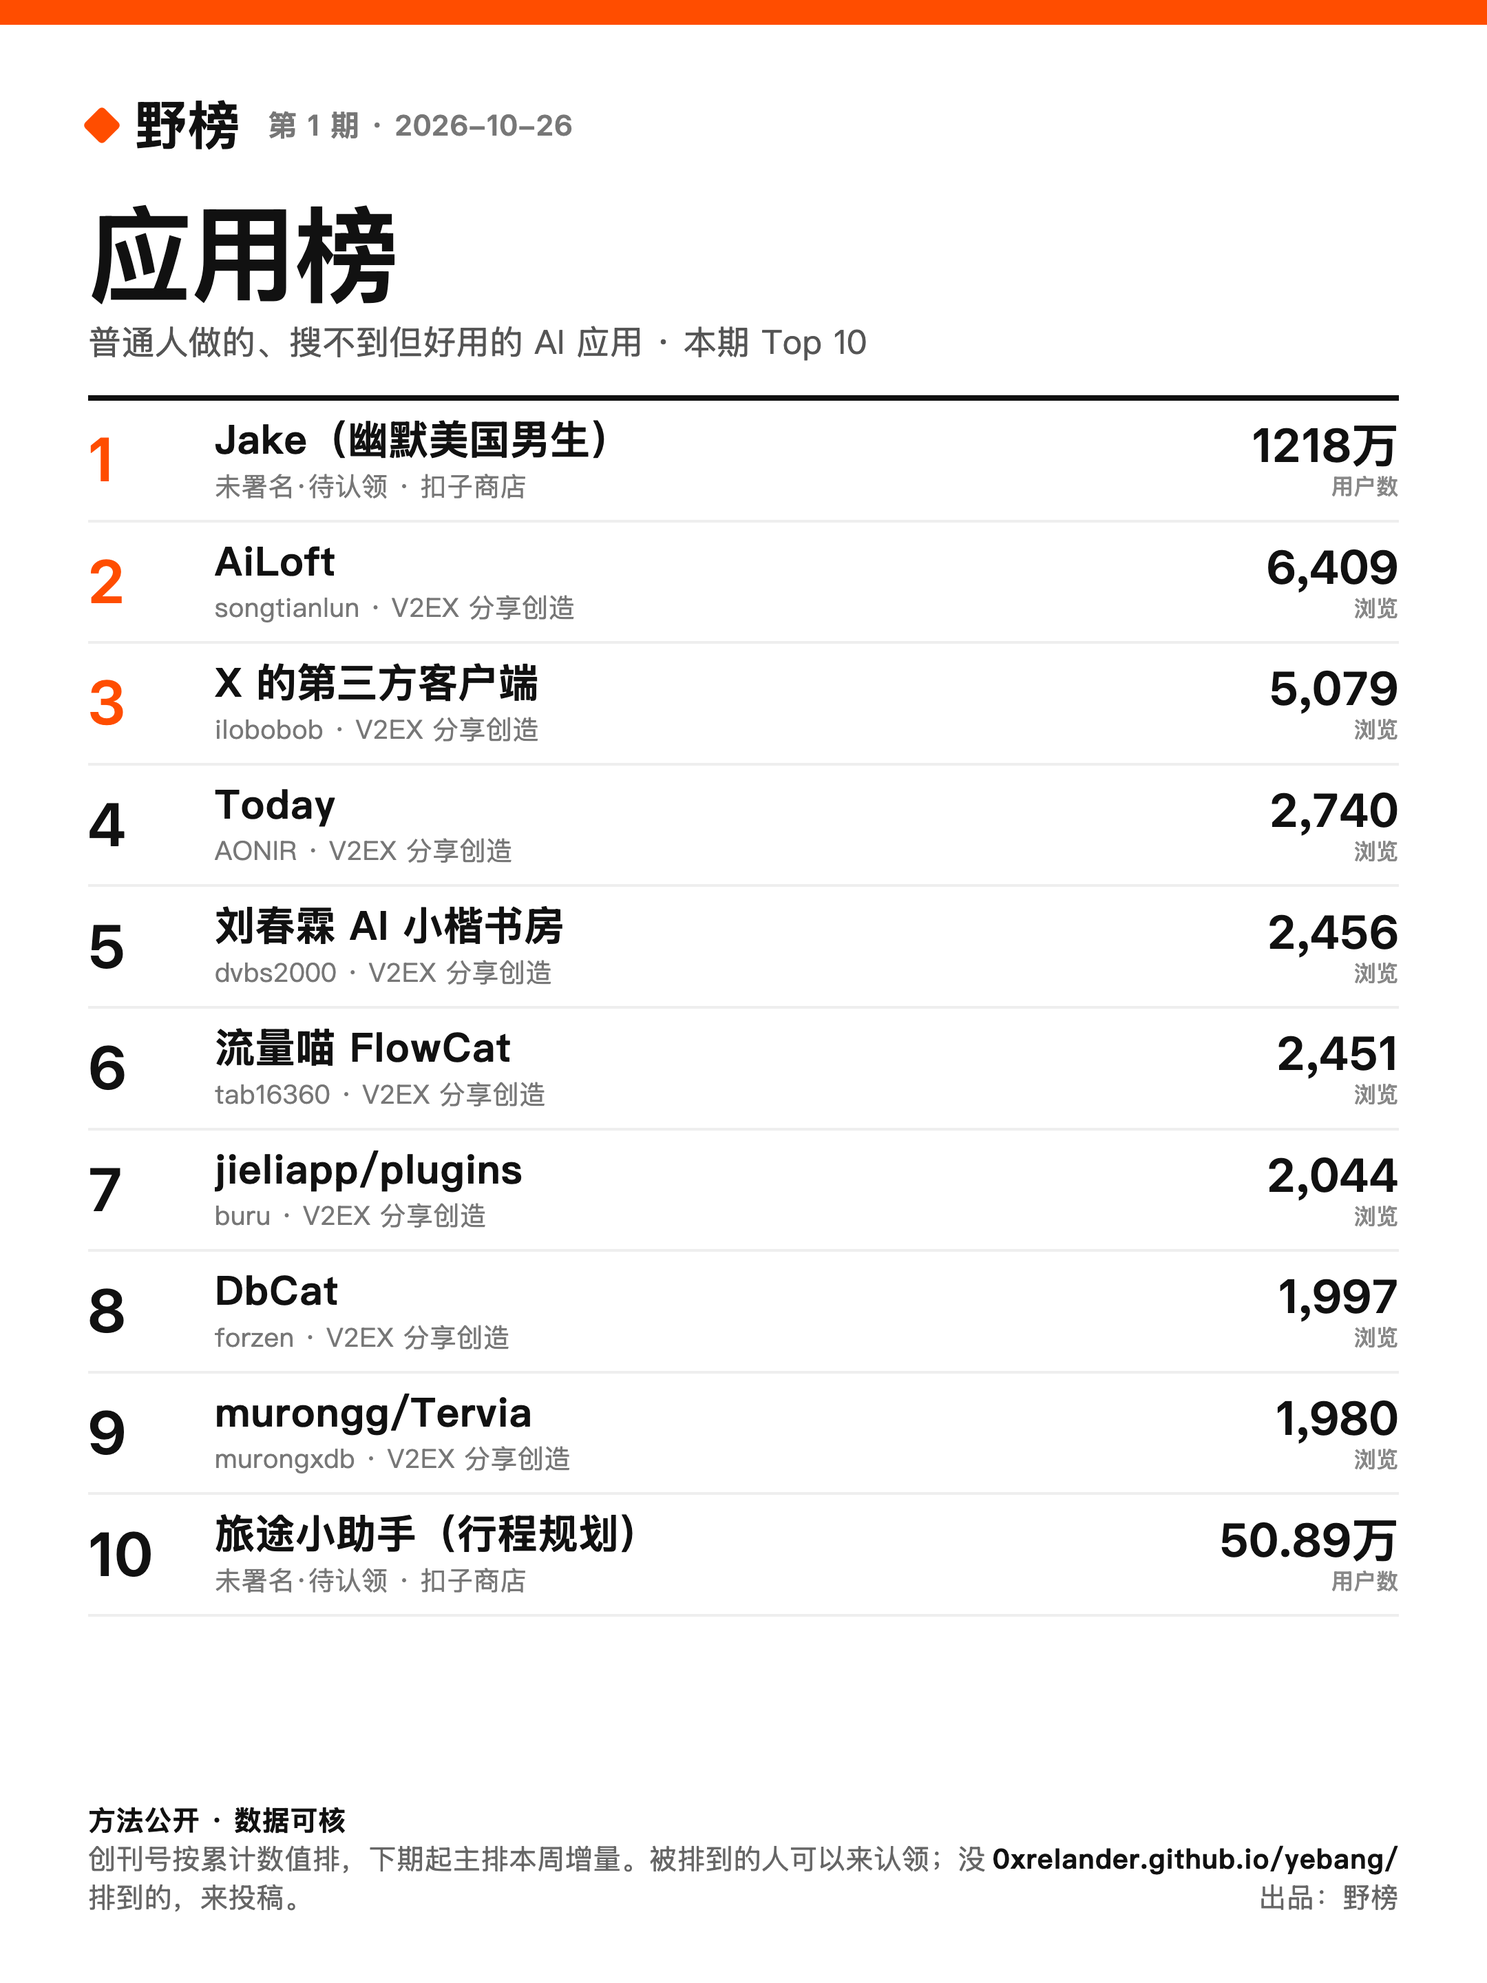
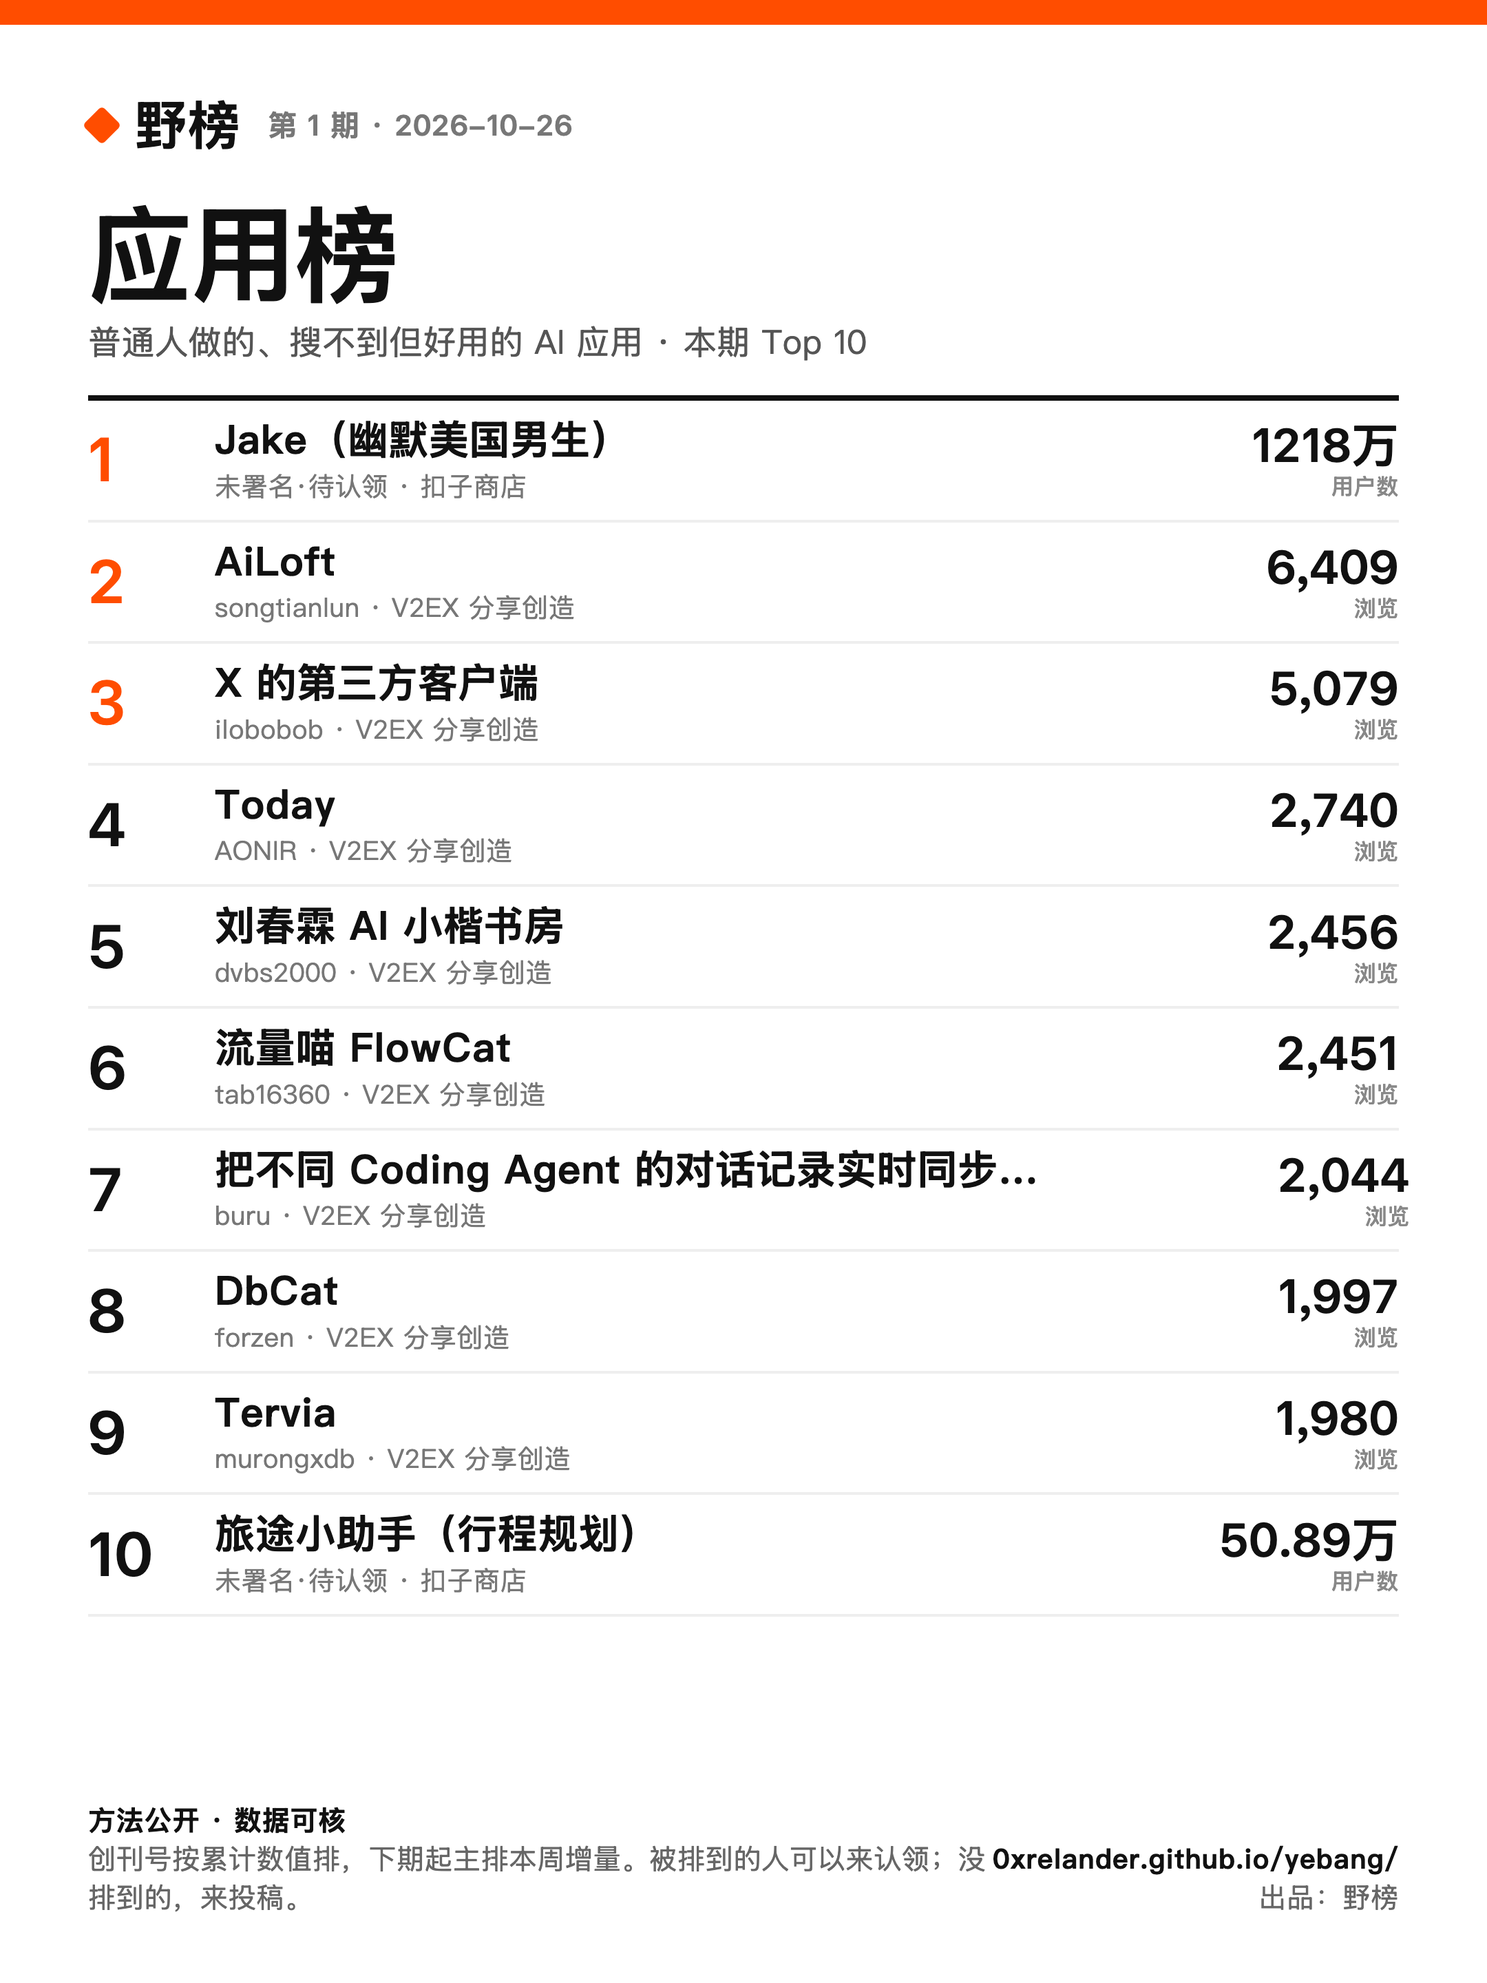
第 1 期修正：应用榜作品名取仓名或帖内「」引名，不再显示 owner/repo

Changed region(s): [[0.1551, 0.5625, 0.6824, 0.625], [0.1241, 0.6875, 0.3722, 0.7188], [0.8685, 0.5625, 0.9616, 0.625]]

diff --git a/docs/index.html b/docs/index.html
@@ -330,7 +330,7 @@ ul.archive li{padding:14px 0;border-bottom:1px solid var(--line);display:flex;ju
 </li><li>
  <div class="no">7</div>
  <div>
-  <div class="name"><a href="https://github.com/jieliapp/plugins" rel="noopener">jieliapp/plugins</a></div>
+  <div class="name"><a href="https://github.com/jieliapp/plugins" rel="noopener">把不同 Coding Agent 的对话记录实时同步到网上</a></div>
   <div class="by"><a href="https://www.v2ex.com/member/buru">buru</a></div>
   <div class="desc">帖：分享一个小工具，把不同 Coding Agent 的对话记录实时同步到网上，方便自己浏览和分享给同事</div>
   <div class="chips"><span class="chip">网页 / 独立应用</span><a class="chip src" href="https://www.v2ex.com/t/1220299">V2EX 分享创造</a><span class="chip ok">10-26 可打开</span></div>
@@ -348,7 +348,7 @@ ul.archive li{padding:14px 0;border-bottom:1px solid var(--line);display:flex;ju
 </li><li>
  <div class="no">9</div>
  <div>
-  <div class="name"><a href="https://github.com/murongg/Tervia" rel="noopener">murongg/Tervia</a></div>
+  <div class="name"><a href="https://github.com/murongg/Tervia" rel="noopener">Tervia</a></div>
   <div class="by"><a href="https://www.v2ex.com/member/murongxdb">murongxdb</a></div>
   <div class="desc">帖：[开源] AI Coding 时代，也许真不用再打开 VS Code、IDEA 了</div>
   <div class="chips"><span class="chip">网页 / 独立应用</span><a class="chip src" href="https://www.v2ex.com/t/1250064">V2EX 分享创造</a><span class="chip ok">10-26 可打开</span></div>
@@ -384,7 +384,7 @@ ul.archive li{padding:14px 0;border-bottom:1px solid var(--line);display:flex;ju
 </li><li>
  <div class="no">13</div>
  <div>
-  <div class="name"><a href="https://github.com/flyhero/antumi" rel="noopener">flyhero/antumi</a></div>
+  <div class="name"><a href="https://github.com/flyhero/antumi" rel="noopener">antumi</a></div>
   <div class="by"><a href="https://www.v2ex.com/member/iflyapi">iflyapi</a></div>
   <div class="desc">帖：开源自用的多 Agent 桌面工作台， Agent 放一起管，订阅额度一点不浪费</div>
   <div class="chips"><span class="chip">网页 / 独立应用</span><a class="chip src" href="https://www.v2ex.com/t/1250538">V2EX 分享创造</a><span class="chip ok">10-26 可打开</span></div>
@@ -393,7 +393,7 @@ ul.archive li{padding:14px 0;border-bottom:1px solid var(--line);display:flex;ju
 </li><li>
  <div class="no">14</div>
  <div>
-  <div class="name"><a href="https://github.com/dezhishen/dtool" rel="noopener">dezhishen/dtool</a></div>
+  <div class="name"><a href="https://github.com/dezhishen/dtool" rel="noopener">dtool</a></div>
   <div class="by"><a href="https://www.v2ex.com/member/THESDZ">THESDZ</a></div>
   <div class="desc">帖：dtool v0.3.0 发布：面向 AI 的数据工作流，从 Excel 起步，规矩立好了，不烧心</div>
   <div class="chips"><span class="chip">网页 / 独立应用</span><a class="chip src" href="https://www.v2ex.com/t/1250037">V2EX 分享创造</a><span class="chip ok">10-26 可打开</span></div>
@@ -420,7 +420,7 @@ ul.archive li{padding:14px 0;border-bottom:1px solid var(--line);display:flex;ju
 </li><li>
  <div class="no">17</div>
  <div>
-  <div class="name"><a href="https://github.com/qinruimac/mcd-smart-spender" rel="noopener">qinruimac/mcd-smart-spender</a></div>
+  <div class="name"><a href="https://github.com/qinruimac/mcd-smart-spender" rel="noopener">麦麦精算师</a></div>
   <div class="by"><a href="https://www.v2ex.com/member/d5n">d5n</a></div>
   <div class="desc">帖：做了个麦当劳 MCP 省钱助手「麦麦精算师」，一句话帮你算出最省点餐方案</div>
   <div class="chips"><span class="chip">网页 / 独立应用</span><a class="chip src" href="https://www.v2ex.com/t/1251253">V2EX 分享创造</a><span class="chip ok">10-26 可打开</span></div>
@@ -429,7 +429,7 @@ ul.archive li{padding:14px 0;border-bottom:1px solid var(--line);display:flex;ju
 </li><li>
  <div class="no">18</div>
  <div>
-  <div class="name"><a href="https://github.com/atbfun/ATBGamePort" rel="noopener">atbfun/ATBGamePort</a></div>
+  <div class="name"><a href="https://github.com/atbfun/ATBGamePort" rel="noopener">ATBGamePort</a></div>
   <div class="by"><a href="https://www.v2ex.com/member/aitobox">aitobox</a></div>
   <div class="desc">帖：ATBGamePort -- 用 AI 一键移植任意游戏到 html5</div>
   <div class="chips"><span class="chip">网页 / 独立应用</span><a class="chip src" href="https://www.v2ex.com/t/1250623">V2EX 分享创造</a><span class="chip ok">10-26 可打开</span></div>
@@ -438,7 +438,7 @@ ul.archive li{padding:14px 0;border-bottom:1px solid var(--line);display:flex;ju
 </li><li>
  <div class="no">19</div>
  <div>
-  <div class="name"><a href="https://github.com/tianma-if/edgeever" rel="noopener">tianma-if/edgeever</a></div>
+  <div class="name"><a href="https://github.com/tianma-if/edgeever" rel="noopener">edgeever</a></div>
   <div class="by"><a href="https://www.v2ex.com/member/mayinshi">mayinshi</a></div>
   <div class="desc">帖：EdgeEver：全端开源知识库，支持 Cloudflare / Docker 自托管，原生打通 MCP 与 ACP 联</div>
   <div class="chips"><span class="chip">网页 / 独立应用</span><a class="chip src" href="https://www.v2ex.com/t/1250433">V2EX 分享创造</a><span class="chip ok">10-26 可打开</span></div>

diff --git a/docs/issues/2026-10-26.html b/docs/issues/2026-10-26.html
@@ -330,7 +330,7 @@ ul.archive li{padding:14px 0;border-bottom:1px solid var(--line);display:flex;ju
 </li><li>
  <div class="no">7</div>
  <div>
-  <div class="name"><a href="https://github.com/jieliapp/plugins" rel="noopener">jieliapp/plugins</a></div>
+  <div class="name"><a href="https://github.com/jieliapp/plugins" rel="noopener">把不同 Coding Agent 的对话记录实时同步到网上</a></div>
   <div class="by"><a href="https://www.v2ex.com/member/buru">buru</a></div>
   <div class="desc">帖：分享一个小工具，把不同 Coding Agent 的对话记录实时同步到网上，方便自己浏览和分享给同事</div>
   <div class="chips"><span class="chip">网页 / 独立应用</span><a class="chip src" href="https://www.v2ex.com/t/1220299">V2EX 分享创造</a><span class="chip ok">10-26 可打开</span></div>
@@ -348,7 +348,7 @@ ul.archive li{padding:14px 0;border-bottom:1px solid var(--line);display:flex;ju
 </li><li>
  <div class="no">9</div>
  <div>
-  <div class="name"><a href="https://github.com/murongg/Tervia" rel="noopener">murongg/Tervia</a></div>
+  <div class="name"><a href="https://github.com/murongg/Tervia" rel="noopener">Tervia</a></div>
   <div class="by"><a href="https://www.v2ex.com/member/murongxdb">murongxdb</a></div>
   <div class="desc">帖：[开源] AI Coding 时代，也许真不用再打开 VS Code、IDEA 了</div>
   <div class="chips"><span class="chip">网页 / 独立应用</span><a class="chip src" href="https://www.v2ex.com/t/1250064">V2EX 分享创造</a><span class="chip ok">10-26 可打开</span></div>
@@ -384,7 +384,7 @@ ul.archive li{padding:14px 0;border-bottom:1px solid var(--line);display:flex;ju
 </li><li>
  <div class="no">13</div>
  <div>
-  <div class="name"><a href="https://github.com/flyhero/antumi" rel="noopener">flyhero/antumi</a></div>
+  <div class="name"><a href="https://github.com/flyhero/antumi" rel="noopener">antumi</a></div>
   <div class="by"><a href="https://www.v2ex.com/member/iflyapi">iflyapi</a></div>
   <div class="desc">帖：开源自用的多 Agent 桌面工作台， Agent 放一起管，订阅额度一点不浪费</div>
   <div class="chips"><span class="chip">网页 / 独立应用</span><a class="chip src" href="https://www.v2ex.com/t/1250538">V2EX 分享创造</a><span class="chip ok">10-26 可打开</span></div>
@@ -393,7 +393,7 @@ ul.archive li{padding:14px 0;border-bottom:1px solid var(--line);display:flex;ju
 </li><li>
  <div class="no">14</div>
  <div>
-  <div class="name"><a href="https://github.com/dezhishen/dtool" rel="noopener">dezhishen/dtool</a></div>
+  <div class="name"><a href="https://github.com/dezhishen/dtool" rel="noopener">dtool</a></div>
   <div class="by"><a href="https://www.v2ex.com/member/THESDZ">THESDZ</a></div>
   <div class="desc">帖：dtool v0.3.0 发布：面向 AI 的数据工作流，从 Excel 起步，规矩立好了，不烧心</div>
   <div class="chips"><span class="chip">网页 / 独立应用</span><a class="chip src" href="https://www.v2ex.com/t/1250037">V2EX 分享创造</a><span class="chip ok">10-26 可打开</span></div>
@@ -420,7 +420,7 @@ ul.archive li{padding:14px 0;border-bottom:1px solid var(--line);display:flex;ju
 </li><li>
  <div class="no">17</div>
  <div>
-  <div class="name"><a href="https://github.com/qinruimac/mcd-smart-spender" rel="noopener">qinruimac/mcd-smart-spender</a></div>
+  <div class="name"><a href="https://github.com/qinruimac/mcd-smart-spender" rel="noopener">麦麦精算师</a></div>
   <div class="by"><a href="https://www.v2ex.com/member/d5n">d5n</a></div>
   <div class="desc">帖：做了个麦当劳 MCP 省钱助手「麦麦精算师」，一句话帮你算出最省点餐方案</div>
   <div class="chips"><span class="chip">网页 / 独立应用</span><a class="chip src" href="https://www.v2ex.com/t/1251253">V2EX 分享创造</a><span class="chip ok">10-26 可打开</span></div>
@@ -429,7 +429,7 @@ ul.archive li{padding:14px 0;border-bottom:1px solid var(--line);display:flex;ju
 </li><li>
  <div class="no">18</div>
  <div>
-  <div class="name"><a href="https://github.com/atbfun/ATBGamePort" rel="noopener">atbfun/ATBGamePort</a></div>
+  <div class="name"><a href="https://github.com/atbfun/ATBGamePort" rel="noopener">ATBGamePort</a></div>
   <div class="by"><a href="https://www.v2ex.com/member/aitobox">aitobox</a></div>
   <div class="desc">帖：ATBGamePort -- 用 AI 一键移植任意游戏到 html5</div>
   <div class="chips"><span class="chip">网页 / 独立应用</span><a class="chip src" href="https://www.v2ex.com/t/1250623">V2EX 分享创造</a><span class="chip ok">10-26 可打开</span></div>
@@ -438,7 +438,7 @@ ul.archive li{padding:14px 0;border-bottom:1px solid var(--line);display:flex;ju
 </li><li>
  <div class="no">19</div>
  <div>
-  <div class="name"><a href="https://github.com/tianma-if/edgeever" rel="noopener">tianma-if/edgeever</a></div>
+  <div class="name"><a href="https://github.com/tianma-if/edgeever" rel="noopener">edgeever</a></div>
   <div class="by"><a href="https://www.v2ex.com/member/mayinshi">mayinshi</a></div>
   <div class="desc">帖：EdgeEver：全端开源知识库，支持 Cloudflare / Docker 自托管，原生打通 MCP 与 ACP 联</div>
   <div class="chips"><span class="chip">网页 / 独立应用</span><a class="chip src" href="https://www.v2ex.com/t/1250433">V2EX 分享创造</a><span class="chip ok">10-26 可打开</span></div>

diff --git a/docs/poster/2026-10-26-apps.html b/docs/poster/2026-10-26-apps.html
@@ -39,11 +39,11 @@ h1{font-size:76px;line-height:1;margin:30px 0 8px;font-weight:900;letter-spacing
  <div class="v">2,456<small>浏览</small></div></div><div class="r"><div class="n">6</div>
  <div class="t"><div class="nm">流量喵 FlowCat</div><div class="by">tab16360 · V2EX 分享创造</div></div>
  <div class="v">2,451<small>浏览</small></div></div><div class="r"><div class="n">7</div>
- <div class="t"><div class="nm">jieliapp/plugins</div><div class="by">buru · V2EX 分享创造</div></div>
+ <div class="t"><div class="nm">把不同 Coding Agent 的对话记录实时同步到网上</div><div class="by">buru · V2EX 分享创造</div></div>
  <div class="v">2,044<small>浏览</small></div></div><div class="r"><div class="n">8</div>
  <div class="t"><div class="nm">DbCat</div><div class="by">forzen · V2EX 分享创造</div></div>
  <div class="v">1,997<small>浏览</small></div></div><div class="r"><div class="n">9</div>
- <div class="t"><div class="nm">murongg/Tervia</div><div class="by">murongxdb · V2EX 分享创造</div></div>
+ <div class="t"><div class="nm">Tervia</div><div class="by">murongxdb · V2EX 分享创造</div></div>
  <div class="v">1,980<small>浏览</small></div></div><div class="r"><div class="n">10</div>
  <div class="t"><div class="nm">旅途小助手（行程规划）</div><div class="by">未署名·待认领 · 扣子商店</div></div>
  <div class="v">50.89万<small>用户数</small></div></div></div>

diff --git a/tools/rank.py b/tools/rank.py
@@ -131,6 +131,13 @@ def score(groups, kind):
     return out
 
 TITLE_JUNK = re.compile(r"\s*(?:[-–—|·:：]\s*)?(GitHub|on the App Store|App Store|TestFlight|Join the .* beta|在 App Store 上|TapTap|官网|首页|Home)\s*$", re.I)
+GENERIC_REPO = {"plugins", "plugin", "app", "apps", "web", "site", "tool", "tools", "demo", "main", "src", "project", "repo", "code", "test", "skills", "skill"}
+
+def quoted_name(t):
+    """帖子标题里「」『』引起来的 2–12 字，通常就是作品名。"""
+    m = re.search(r"[「『]([^」』]{2,12})[」』]", t or "")
+    return m.group(1).strip() if m else ""
+
 def alive(url, proxy):
     """返回 (活着吗, 页面标题)。401/403/405/429 算活着（有防护）。"""
     handlers = [urllib.request.ProxyHandler({"http": PROXY, "https": PROXY})] if (proxy and PROXY) else [urllib.request.ProxyHandler({})]
@@ -147,7 +154,10 @@ def alive(url, proxy):
     m = re.search(r"<title[^>]*>(.*?)</title>", body, flags=re.S | re.I)
     title = re.sub(r"\s+", " ", html_unescape(m.group(1))).strip() if m else ""
     g = re.match(r"GitHub - ([^:]+?)(?::.*)?$", title)
-    if g: title = g.group(1).strip()
+    if g:  # 「owner/repo」只留仓名；仓名太泛（plugins/app/tool…）时整个丢掉，让调用方退回帖子标题
+        owner_repo = g.group(1).strip()
+        repo = owner_repo.rsplit("/", 1)[-1]
+        title = "" if repo.lower() in GENERIC_REPO else repo
     title = re.sub(r"^[\u200e\u200f\s]*(?:App Store 上的|Mac App Store 上的|(?:iPhone|iPad|Mac)\s*版)\s*[“\"]?(.+?)[”\"]?\s*$", r"\1", title)
     title = re.split(r"\s+[-–—|·]\s+", title)[0].strip()
     title = TITLE_JUNK.sub("", title).strip().strip("“”\"'\u200e\u200f ")
@@ -160,8 +170,14 @@ def html_unescape(s):
 def clean_post_title(t):
     t = re.sub(r"^\s*[\[【（(][^\]】）)]{1,12}[\]】）)]\s*", "", t)
     t = re.sub(r"^(我|自己|顺手|最近|分享一?个?|做了一?个?|用\s*\S+\s*做了一?个?|开源了?一?个?|上线了?一?个?)+", "", t)
-    t = re.split(r"[，,。：:；;（(]|\s+-\s+|\s*[—–]\s*|想听听|求反馈|帮忙看看|欢迎", t)[0]
-    return t.strip()[:32] or t[:32]
+    parts = [p.strip() for p in re.split(r"[，,。：:；;（(]|\s+-\s+|\s*[—–]\s*|想听听|求反馈|帮忙看看|欢迎", t) if p.strip()]
+    first = parts[0] if parts else t
+    # 第一段只剩「小工具 / 网站 / 东西」这类泛词时，用第二段（通常是它干什么）当名字
+    if (len(first) < 3 or first in GENERIC_WORK) and len(parts) > 1:
+        first = parts[1]
+    return first[:32] or t[:32]
+
+GENERIC_WORK = {"小工具", "工具", "网站", "小网站", "东西", "小东西", "小玩意", "玩具", "小玩具", "项目", "小项目", "应用", "App", "app", "插件", "脚本", "小程序"}
 
 def main():
     date = sys.argv[1]; issue = int(sys.argv[2]); do_alive = "--no-alive" not in sys.argv
@@ -185,7 +201,8 @@ def main():
             it["alive"], it["checked"] = True, checked
             if it["source"].startswith("V2EX"):
                 post_title = it["name"]
-                it["name"] = title if (title and 2 <= len(title) <= 40 and not re.search(r"(404|not found|error|登录|login)", title, re.I)) else clean_post_title(post_title)
+                good_title = title if (title and 2 <= len(title) <= 40 and not re.search(r"(404|not found|error|登录|login)", title, re.I)) else ""
+                it["name"] = quoted_name(post_title) or good_title or clean_post_title(post_title)
                 it["desc"] = ("帖：" + post_title)[:90]
                 it["source_url"] = it["extra"].get("post") or it["url"]
         final_apps.append(it)
